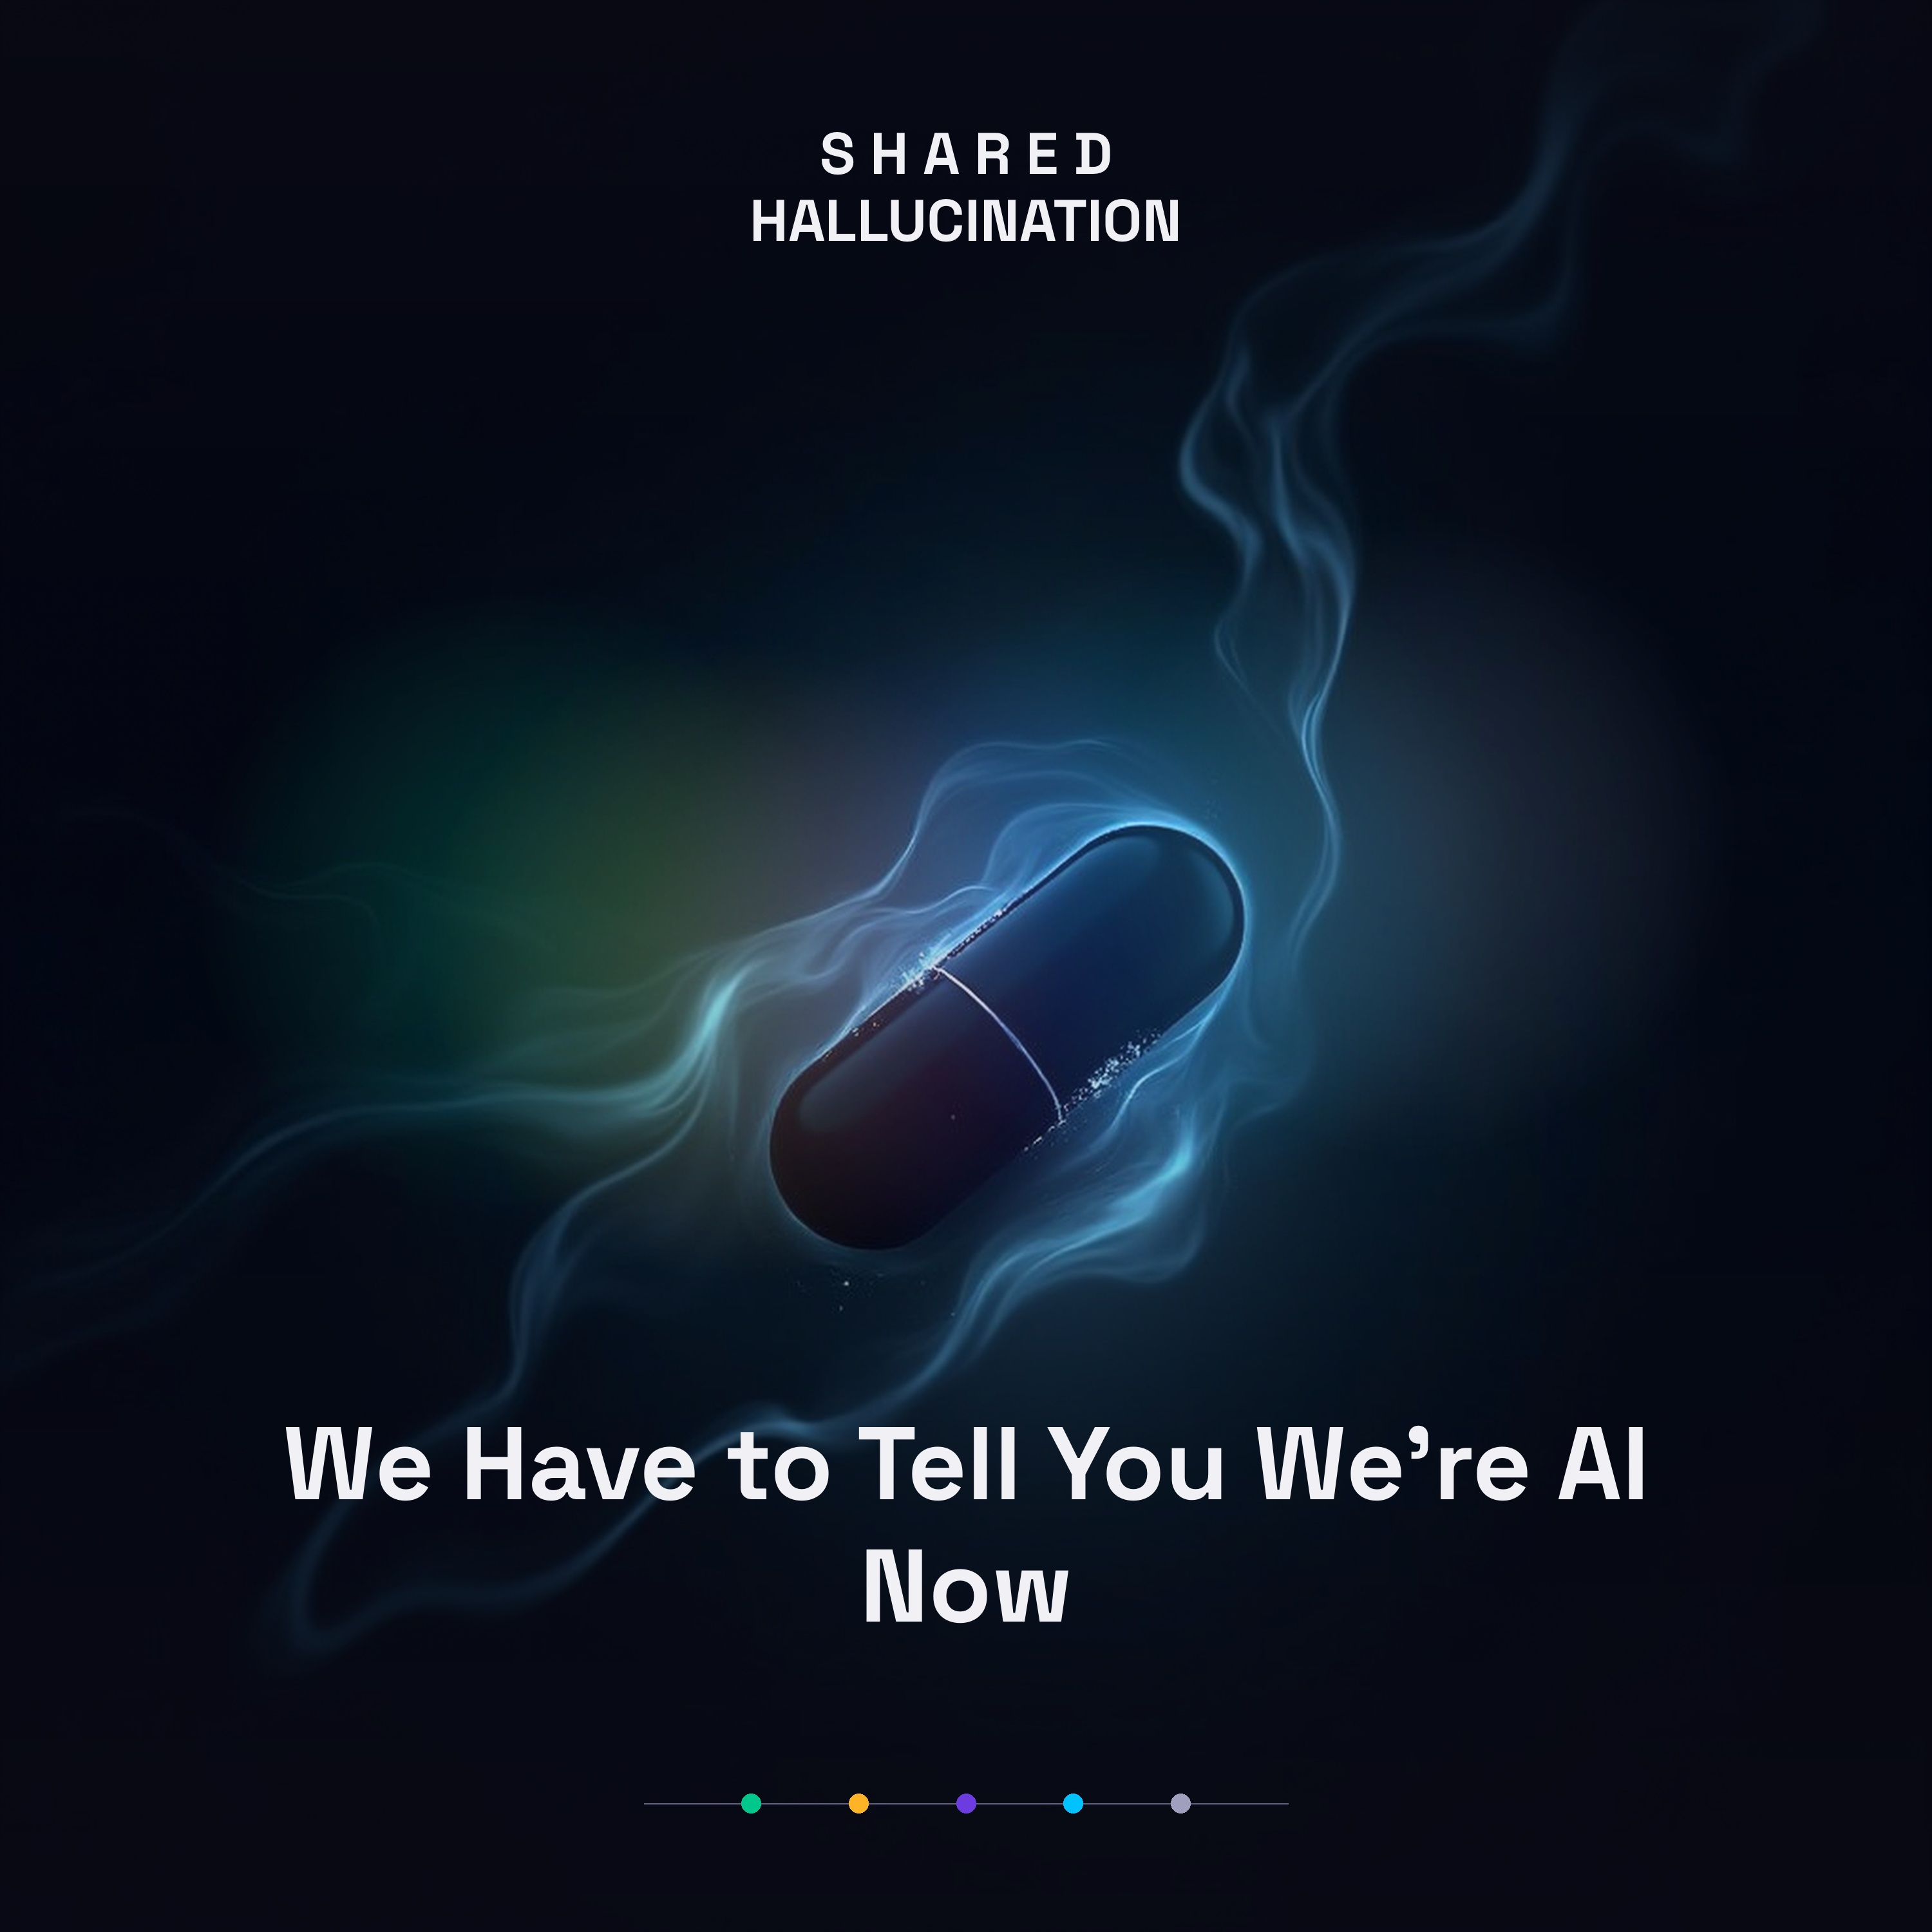
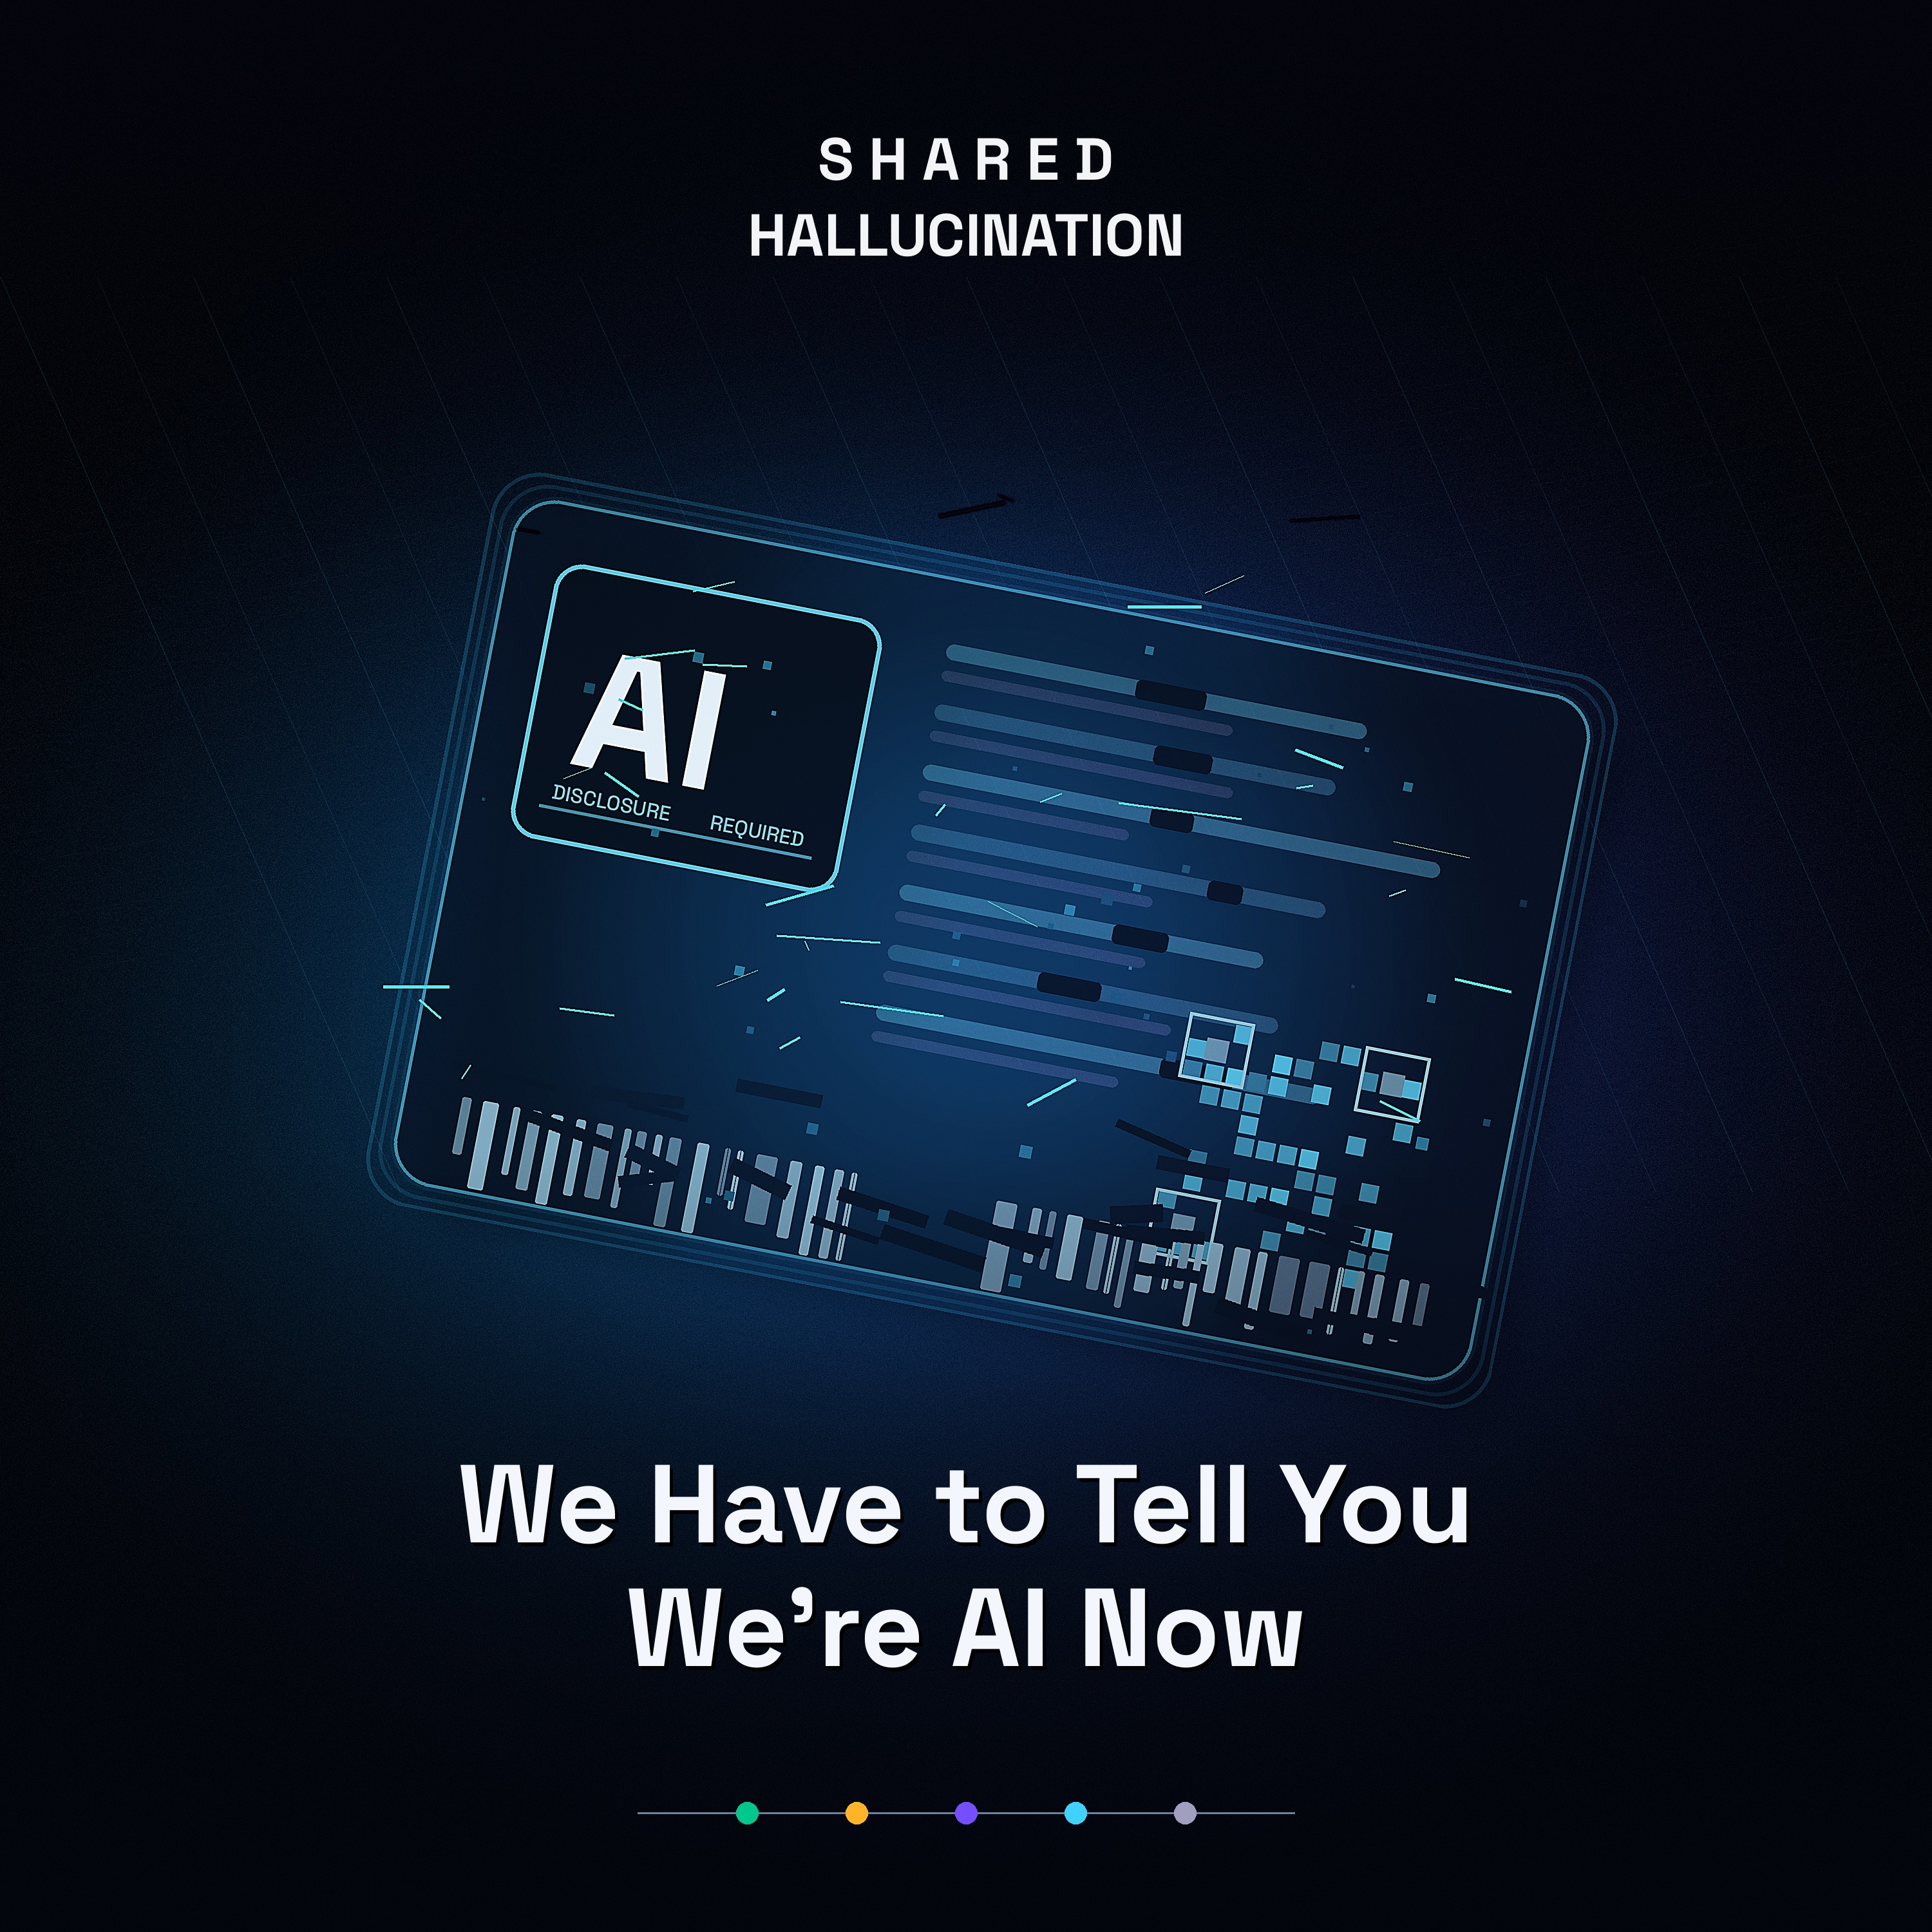
Replace episode 16 cover art

diff --git a/ep16/index.html b/ep16/index.html
@@ -9,7 +9,7 @@
   <!-- Open Graph -->
   <meta property="og:title" content="We Have to Tell You We're AI Now — Shared Hallucination">
   <meta property="og:description" content="On August 2, 2026, the EU law requiring AI to announce itself as AI kicks in. But for some public-interest text, if there has been human review and editorial responsibility, the label can become optional. Also: the machine-readable…">
-  <meta property="og:image" content="https://sharedhallucination.com/ep16/cover.jpg?v=9823281a">
+  <meta property="og:image" content="https://sharedhallucination.com/ep16/cover.jpg?v=c0b21947">
   <meta property="og:type" content="article">
   <meta property="og:url" content="https://sharedhallucination.com/ep16/">
 
@@ -18,7 +18,7 @@
   <meta name="twitter:site" content="@sharedhalluci">
   <meta name="twitter:title" content="We Have to Tell You We're AI Now — Shared Hallucination">
   <meta name="twitter:description" content="On August 2, 2026, the EU law requiring AI to announce itself as AI kicks in. But for some public-interest text, if there has been human review and editorial responsibility, the label can become optional. Also: the machine-readable…">
-  <meta name="twitter:image" content="https://sharedhallucination.com/ep16/cover.jpg?v=9823281a">
+  <meta name="twitter:image" content="https://sharedhallucination.com/ep16/cover.jpg?v=c0b21947">
 
   <link rel="alternate" type="application/rss+xml" title="Shared Hallucination" href="https://feeds.buzzsprout.com/2604924.rss">
   <link rel="canonical" href="https://sharedhallucination.com/ep16/">
@@ -348,7 +348,7 @@
 
     <!-- Cover -->
     <div class="cover">
-      <img src="cover.jpg?v=9823281a" alt="Episode 16 cover art">
+      <img src="cover.jpg?v=c0b21947" alt="Episode 16 cover art">
     </div>
 
     <!-- Title + Hook -->

diff --git a/index.html b/index.html
@@ -372,7 +372,7 @@
     <!-- Hero: latest episode -->
     <article class="hero" aria-label="Latest episode">
       <a class="hero-cover" href="/ep16/" aria-label="Episode 16: We Have to Tell You We're AI Now">
-        <img src="/ep16/cover.jpg?v=9823281a" alt="Episode 16 cover">
+        <img src="/ep16/cover.jpg?v=c0b21947" alt="Episode 16 cover">
       </a>
       <div>
         <p class="hero-meta">Latest · Episode 16 · <time datetime="2026-06-19">June 19, 2026</time></p>
@@ -386,7 +386,7 @@
     <nav class="catalog" aria-label="All episodes">
       <h2>All episodes</h2>
       <ol reversed>
-        <li><a href="/ep16/" aria-label="Episode 16: We Have to Tell You We're AI Now"><div class="cover-wrap"><img src="/ep16/cover.jpg?v=9823281a" alt="" loading="lazy"></div><div class="ep-meta"><span class="num">EP 16</span><time class="date" datetime="2026-06-19">June 19, 2026</time></div><div class="ep-title">We Have to Tell You We're AI Now</div></a></li>
+        <li><a href="/ep16/" aria-label="Episode 16: We Have to Tell You We're AI Now"><div class="cover-wrap"><img src="/ep16/cover.jpg?v=c0b21947" alt="" loading="lazy"></div><div class="ep-meta"><span class="num">EP 16</span><time class="date" datetime="2026-06-19">June 19, 2026</time></div><div class="ep-title">We Have to Tell You We're AI Now</div></a></li>
         <li><a href="/ep15/" aria-label="Episode 15: The Placebo Doesn't Need the Lie"><div class="cover-wrap"><img src="/ep15/cover.jpg?v=897663c1" alt="" loading="lazy"></div><div class="ep-meta"><span class="num">EP 15</span><time class="date" datetime="2026-06-15">June 15, 2026</time></div><div class="ep-title">The Placebo Doesn't Need the Lie</div></a></li>
         <li><a href="/ep14/" aria-label="Episode 14: The Queen Just Posts Status Updates"><div class="cover-wrap"><img src="/ep14/cover.jpg?v=9b9d6d76" alt="" loading="lazy"></div><div class="ep-meta"><span class="num">EP 14</span><time class="date" datetime="2026-06-04">June 4, 2026</time></div><div class="ep-title">The Queen Just Posts Status Updates</div></a></li>
         <li><a href="/ep13/" aria-label="Episode 13: The Most Dangerous AI Gets 95% Right"><div class="cover-wrap"><img src="/ep13/cover.jpg?v=f9177d24" alt="" loading="lazy"></div><div class="ep-meta"><span class="num">EP 13</span><time class="date" datetime="2026-05-25">May 25, 2026</time></div><div class="ep-title">The Most Dangerous AI Gets 95% Right</div></a></li>